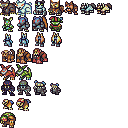
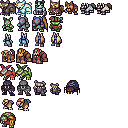
added spider boss and completion of quests

Changed region(s): [[0.5, 0.625, 0.625, 0.75]]

diff --git a/js/enemies.js b/js/enemies.js
@@ -48,7 +48,25 @@ function AlligatorBossFight(){
         "sprite": "res/images/Player0.png",
         "health": 250,
         "damage": 40,
-        "index": 112
+        "index": 112,
+        "type": "AligatorBoss"        
+    });
+    h.combatTurn = initCombatTurn(combatMenu, boss);
+    combatMenu.skillsMenu.runnable = false;
+	combatMenu.skillsMenu.drawSkills();
+    updateHealth(combatMenu);
+}
+
+function SpiderBossFight(){
+    h.inCombat = true;
+    var combatMenu = spawnCombatMenu();
+    var boss = new createEnemy({
+        "name": "Spider Queen",
+        "sprite": "res/images/Misc0.png",
+        "health": 350,
+        "damage": 50,
+        "index": 44,
+        "type": "SpiderBoss"
     });
     h.combatTurn = initCombatTurn(combatMenu, boss);
     combatMenu.skillsMenu.runnable = false;

diff --git a/json/map_list.js b/json/map_list.js
@@ -341,16 +341,16 @@ maps = [{
     "tilesWide": 15,
     "tilesHigh": 25,
     "triggers": [{
-        "id": 112, 
+        "id": 44, 
         "name": "Spider Queen",
         "type": "npc",
         "visible": true,
-        "x": 480,
-        "y": 352,
+        "x": 160,
+        "y": 80,
         "width": 16,
         "height": 16,        
-        "dialog": ["Hissss...", AlligatorBossFight],
-        "spriteSheet" : "res/images/Player0.png"
+        "dialog": ["Hiiiissss...", SpiderBossFight],
+        "spriteSheet" : "res/images/Misc0.png"
     },{
         "id": 6,
         "name": "teleporterOverworld",

diff --git a/js/index.js b/js/index.js
@@ -16,7 +16,7 @@ let thingsToLoad = [
 	"res/maps/village_collisions.bmp",
     "res/maps/empty_collisions.bmp",
     "res/maps/alligator_hideout_collisions.bmp",
-    "res/maps/alligator_hideout.png",
+    "res/maps/aligator_hideout.png",
 	"res/images/Misc0.png"
 ];
 
